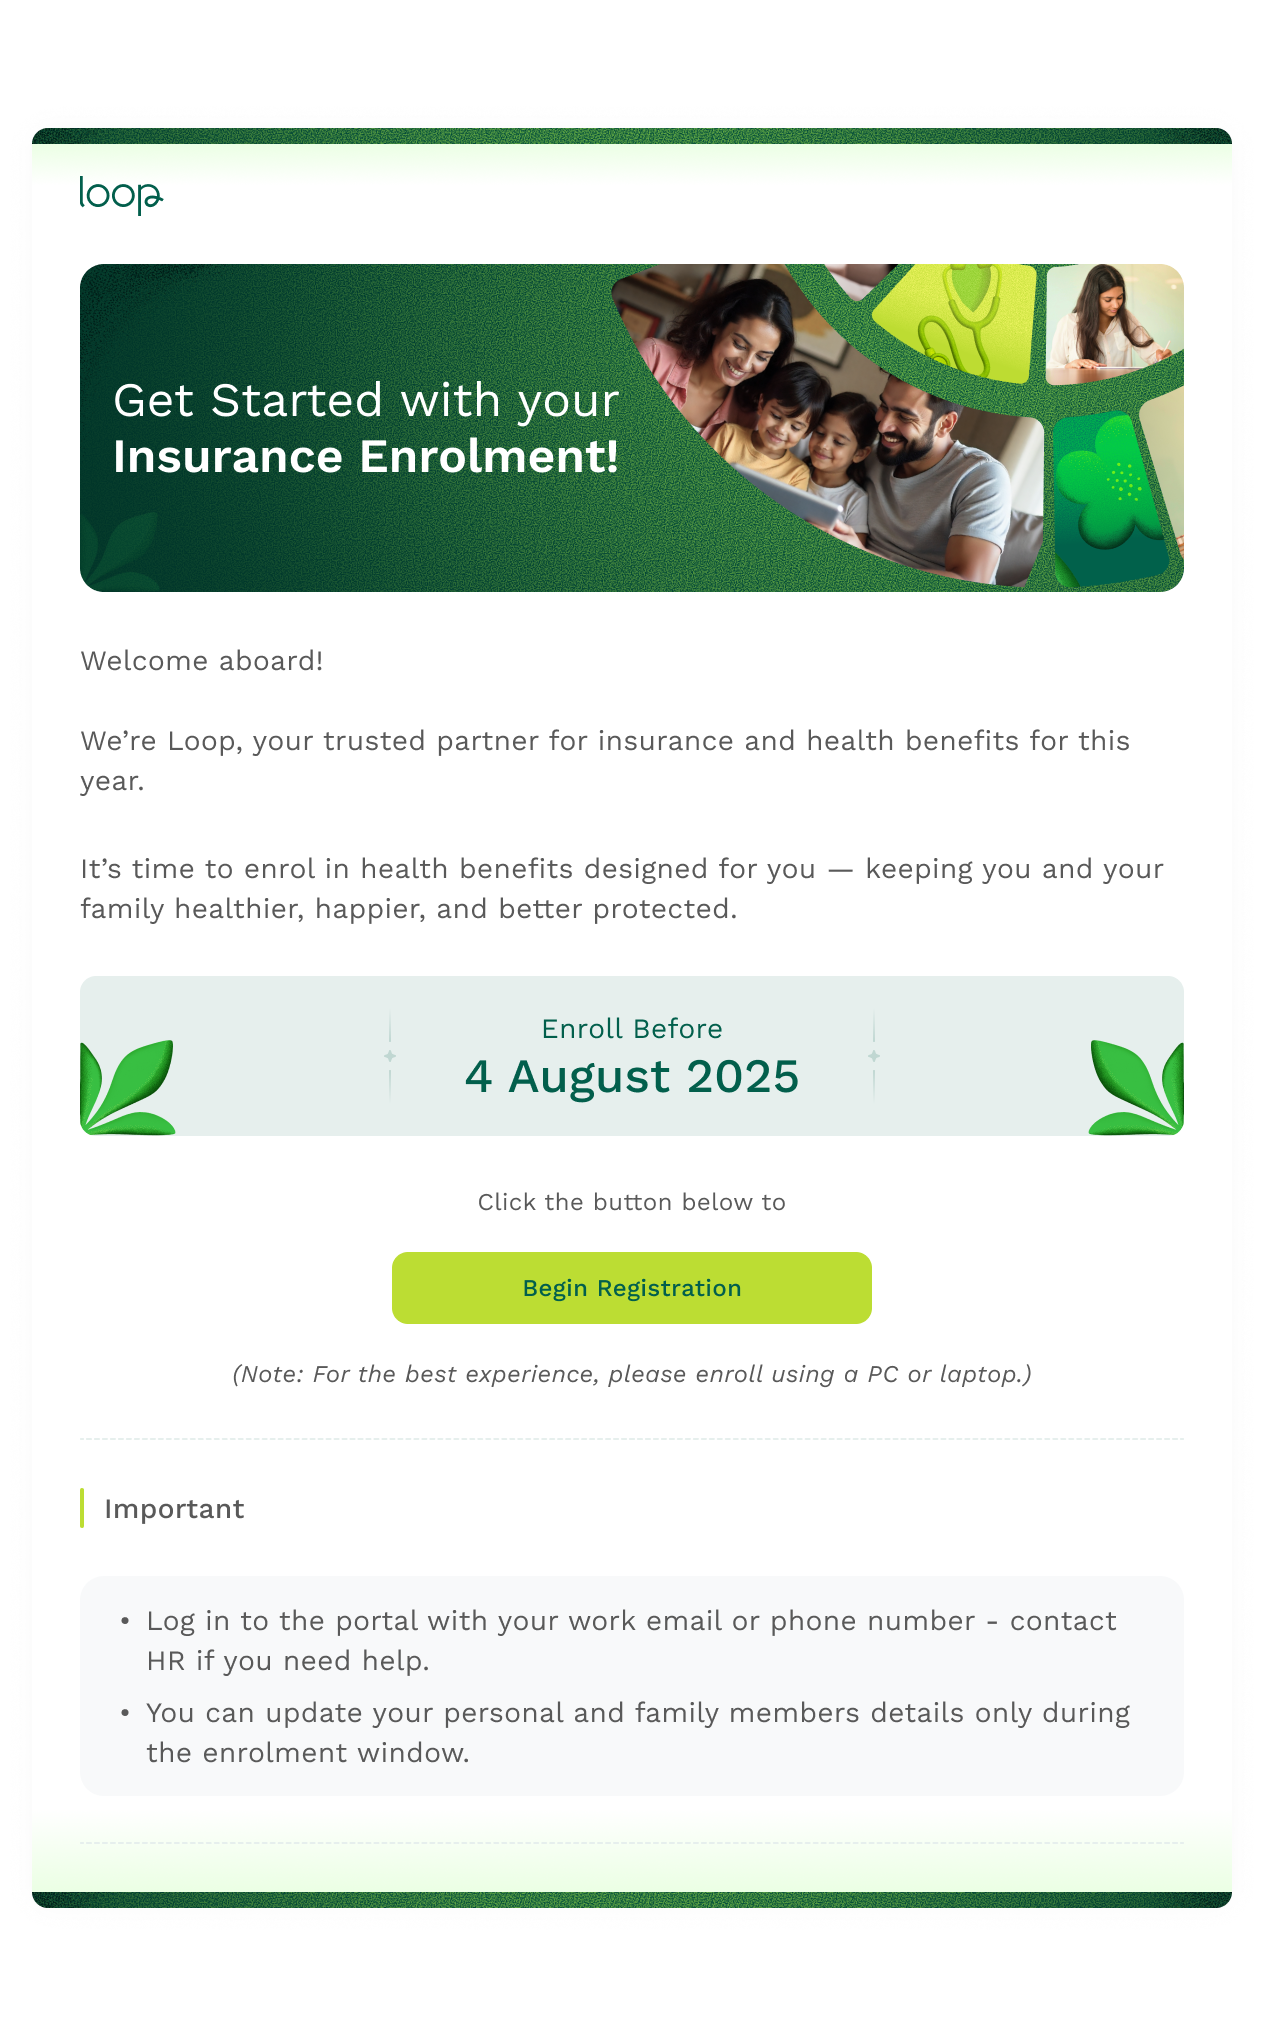
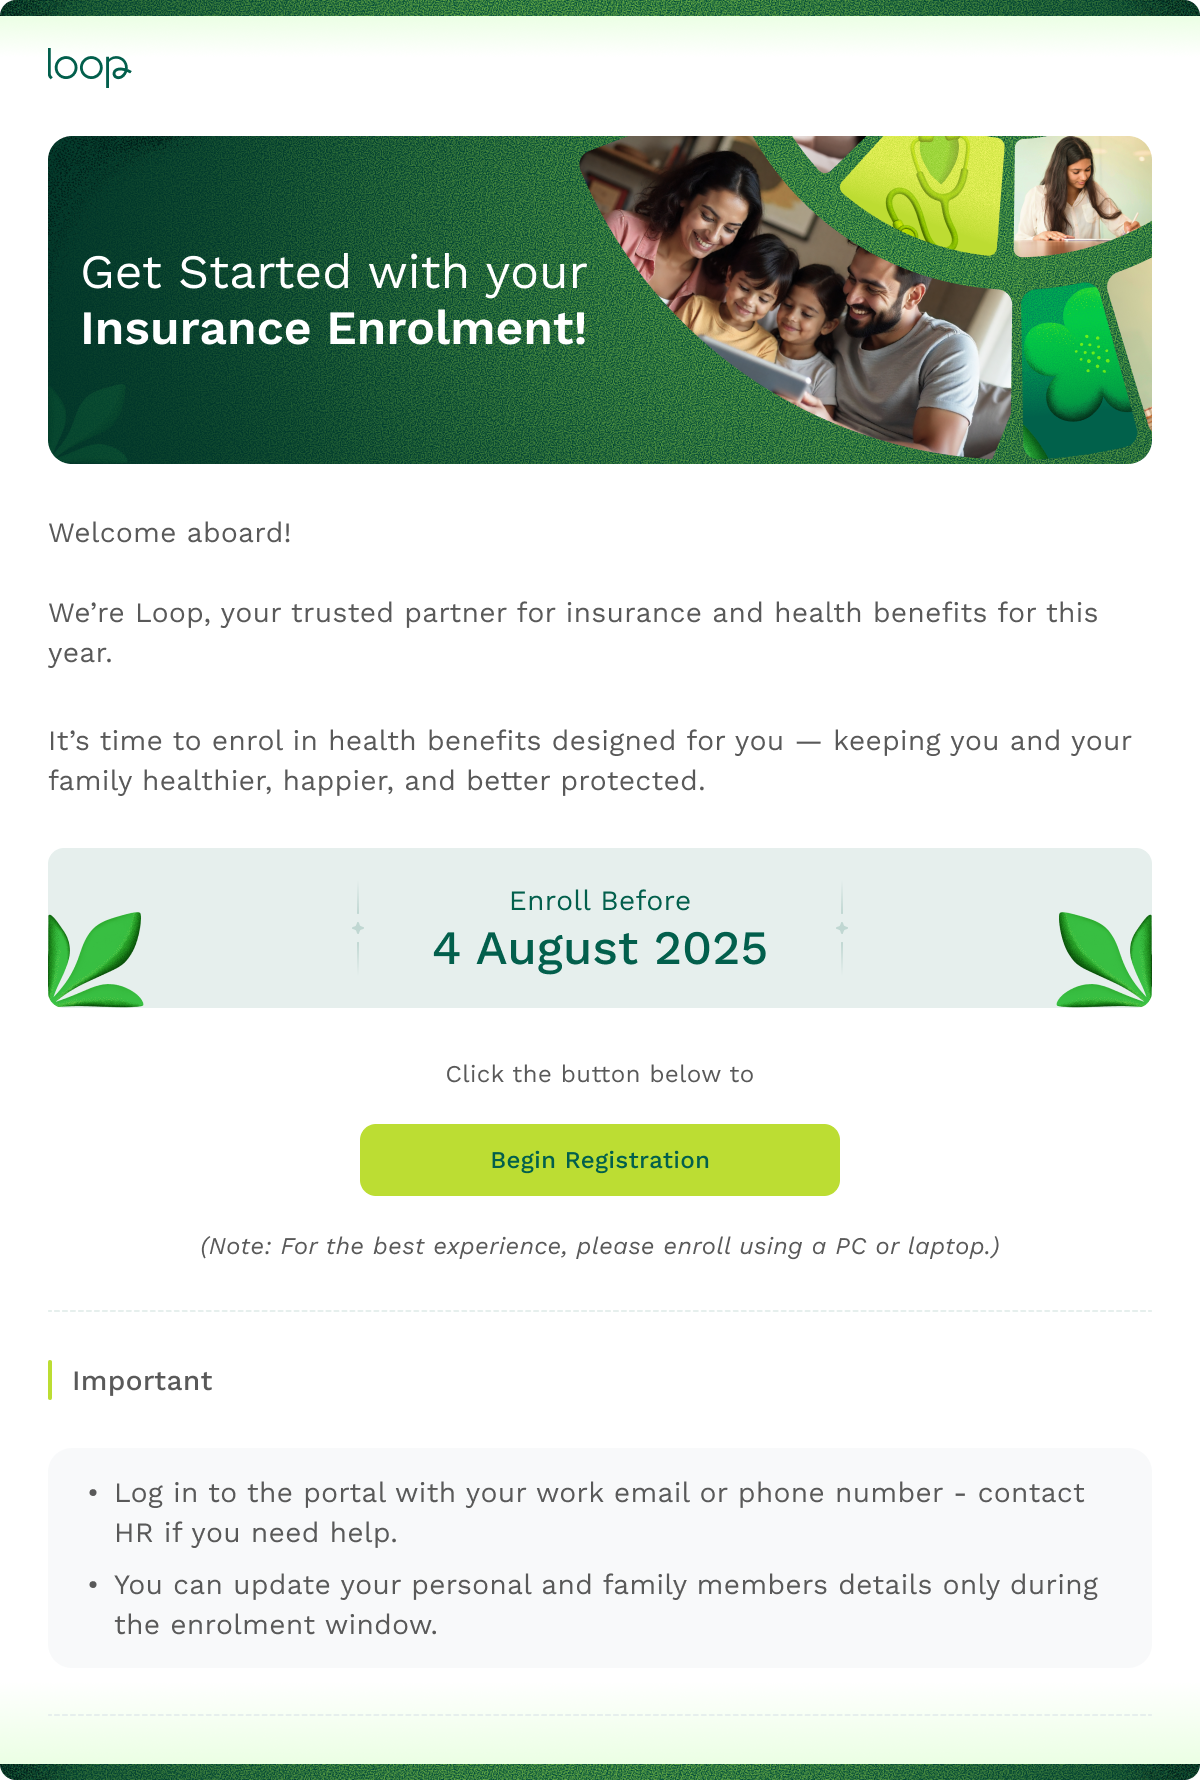
Fix enrollment modal scroll and crop the invite preview
Keep the email preview at its natural height so the modal body can scroll, and trim the white padding from the preview image so the artwork fills the frame.

diff --git a/src/pages/ManageLives/landings/EnrollmentSettingsModal.tsx b/src/pages/ManageLives/landings/EnrollmentSettingsModal.tsx
@@ -1,4 +1,4 @@
-import { useState } from 'react'
+import { useEffect, useState } from 'react'
 import styled, { keyframes } from 'styled-components'
 
 import { assets } from '@/assets/figma'
@@ -23,6 +23,12 @@ export function EnrollmentSettingsModal({
 }: Props) {
   const [launchEnrolment, setLaunchEnrolment] = useState(true)
   const [inviteSchedule, setInviteSchedule] = useState<'now' | 'later'>('later')
+
+  useEffect(() => {
+    if (open) return
+    setLaunchEnrolment(true)
+    setInviteSchedule('later')
+  }, [open])
 
   if (!open) return null
 
@@ -228,6 +234,10 @@ const CloseButton = styled.button`
   }
 `
 
+/**
+ * Children must not shrink: the tall email preview would otherwise be squeezed
+ * to fit this box instead of overflowing it, leaving nothing to scroll.
+ */
 const Body = styled.div`
   display: flex;
   min-height: 0;
@@ -235,6 +245,11 @@ const Body = styled.div`
   flex-direction: column;
   gap: 20px;
   overflow-y: auto;
+  overscroll-behavior: contain;
+
+  > * {
+    flex-shrink: 0;
+  }
 `
 
 const Field = styled.div`
